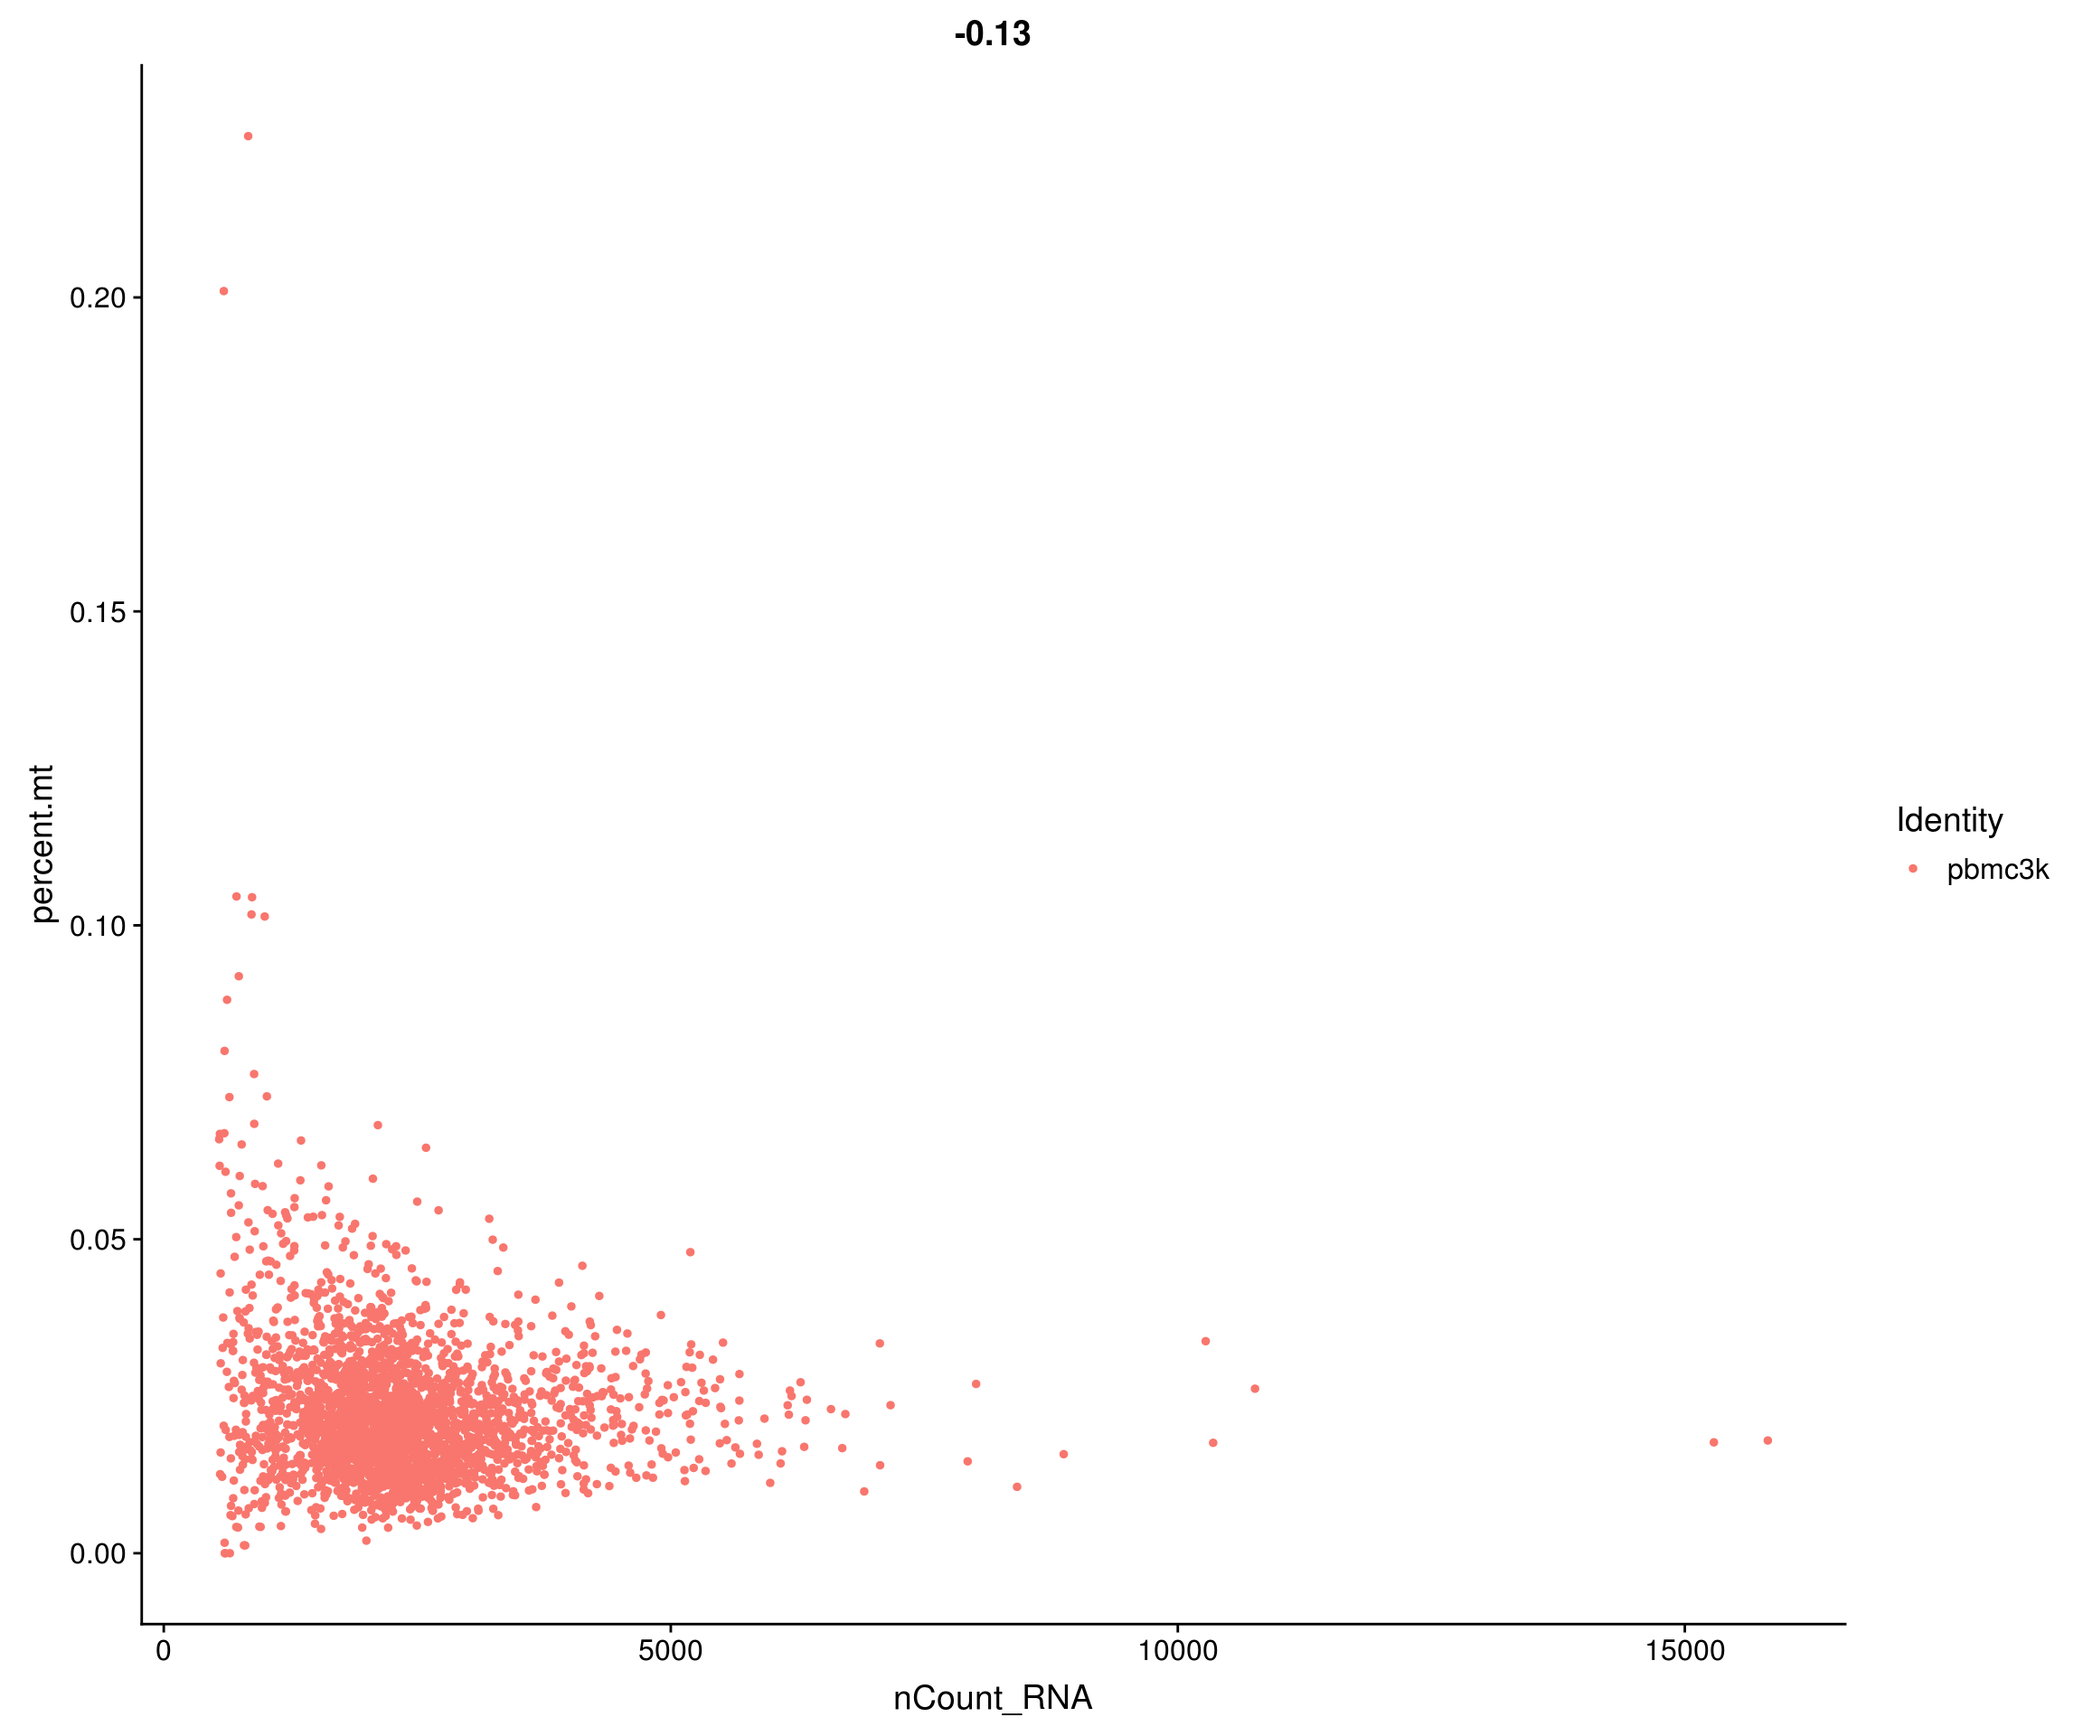
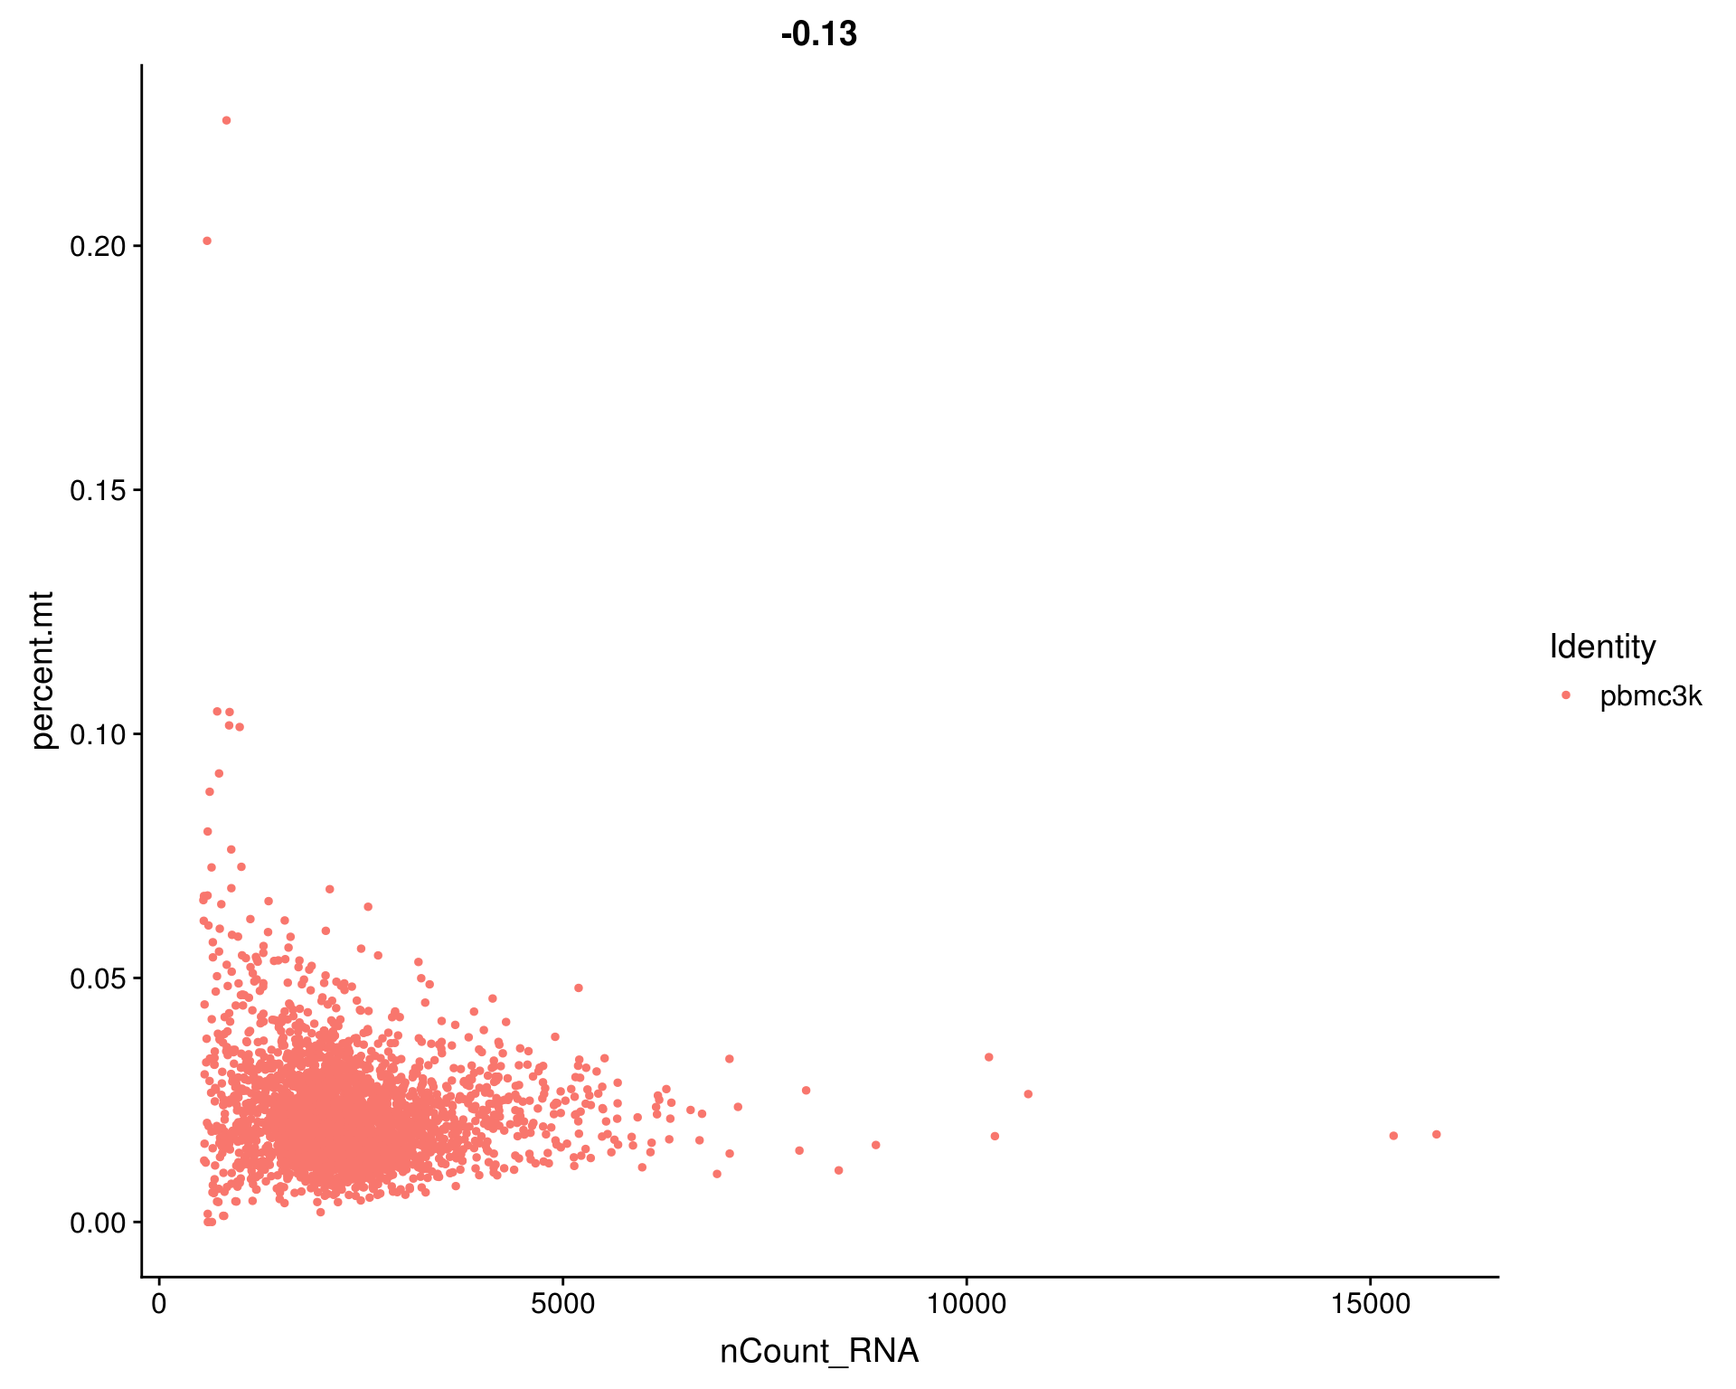
Build site.

diff --git a/docs/analysis.html b/docs/analysis.html
@@ -318,7 +318,7 @@ div.section {
 
 <h1 class="title toc-ignore">Single cell data analysis workshop</h1>
 <h4 class="author"><em>Jon Thompson, Pers lab</em></h4>
-<h4 class="date"><em>2019-05-10 09:15:48</em></h4>
+<h4 class="date"><em>2019-05-10 09:26:52</em></h4>
 
 </div>
 
@@ -422,10 +422,10 @@ This reproducible <a href="http://rmarkdown.rstudio.com">R Markdown</a> analysis
 <div class="panel panel-default">
 <div class="panel-heading">
 <p class="panel-title">
-<a data-toggle="collapse" data-parent="#workflowr-checks" href="#strongRepositoryversionstrongahrefhttpsgithubcomJonThom190510scWorkshoptree6acaec4b34edf9d57adf1caf023f1835cf43813btargetblank6acaec4a"> <span class="glyphicon glyphicon-ok text-success" aria-hidden="true"></span> <strong>Repository version:</strong> <a href="https://github.com/JonThom/190510-scWorkshop/tree/6acaec4b34edf9d57adf1caf023f1835cf43813b" target="_blank">6acaec4</a> </a>
+<a data-toggle="collapse" data-parent="#workflowr-checks" href="#strongRepositoryversionstrongahrefhttpsgithubcomJonThom190510scWorkshoptree0b4f952b473b5653698f687b2f68ddc63337e035targetblank0b4f952a"> <span class="glyphicon glyphicon-ok text-success" aria-hidden="true"></span> <strong>Repository version:</strong> <a href="https://github.com/JonThom/190510-scWorkshop/tree/0b4f952b473b5653698f687b2f68ddc63337e035" target="_blank">0b4f952</a> </a>
 </p>
 </div>
[2 lines of base64/hex data omitted]
 <div class="panel-body">
 <p>
 Great! You are using Git for version control. Tracking code development and connecting the code version to the results is critical for reproducibility. The version displayed above was the version of the Git repository at the time these results were generated. <br><br> Note that you need to be careful to ensure that all relevant files for the analysis have been committed to Git prior to generating the results (you can use <code>wflow_publish</code> or <code>wflow_git_commit</code>). workflowr only checks the R Markdown file, but you know if there are other scripts or data files that it depends on. Below is the status of the Git repository when the results were generated:
@@ -476,6 +476,40 @@ Message
 </tr>
 </thead>
 <tbody>
+<tr>
+<td>
+Rmd
+</td>
+<td>
+<a href="https://github.com/JonThom/190510-scWorkshop/blob/0b4f952b473b5653698f687b2f68ddc63337e035/analysis/analysis.Rmd" target="_blank">0b4f952</a>
+</td>
+<td>
+JonThom
+</td>
+<td>
+2019-05-10
+</td>
+<td>
+wflow_publish(“./analysis/analysis.Rmd”)
+</td>
+</tr>
+<tr>
+<td>
+html
+</td>
+<td>
+<a href="https://rawcdn.githack.com/JonThom/190510-scWorkshop/966c250a78bade4d0b7c9be1210aff5c53b79e3b/docs/analysis.html" target="_blank">966c250</a>
+</td>
+<td>
+JonThom
+</td>
+<td>
+2019-05-10
+</td>
+<td>
+Build site.
+</td>
+</tr>
 <tr>
 <td>
 Rmd
@@ -852,7 +886,7 @@ JonThom
 # for anything calculated by the object, i.e. columns in object metadata, PC scores etc.
 
 FeatureScatter(pbmc, feature1 = &quot;nCount_RNA&quot;, feature2 = &quot;percent.mt&quot;)</code></pre>
-<p><img src="figure/analysis.Rmd/unnamed-chunk-10-1.png" width="1152" style="display: block; margin: auto;" /></p>
+<p><img src="figure/analysis.Rmd/unnamed-chunk-10-1.png" width="960" style="display: block; margin: auto;" /></p>
 <p>
 <button type="button" class="btn btn-default btn-xs btn-workflowr btn-workflowr-fig" data-toggle="collapse" data-target="#fig-unnamed-chunk-10-1">
 Past versions of unnamed-chunk-10-1.png
@@ -1317,7 +1351,7 @@ Number of edges: 157834
 Running Louvain algorithm...
 Maximum modularity in 10 random starts: 0.8590
 Number of communities: 9
-Elapsed time: 1 seconds</code></pre>
+Elapsed time: 0 seconds</code></pre>
 <pre class="r"><code># Look at cluster IDs of the first 5 cells
 head(Idents(pbmc), 5)</code></pre>
 <pre><code>AAACATACAACCAC AAACATTGAGCTAC AAACATTGATCAGC AAACCGTGCTTCCG AAACCGTGTATGCG 
@@ -1342,7 +1376,7 @@ pbmc &lt;- RunTSNE(pbmc,
 # individual clusters
 DimPlot(pbmc, 
         reduction = &quot;tsne&quot;)</code></pre>
-<p><img src="figure/analysis.Rmd/unnamed-chunk-29-1.png" width="960" style="display: block; margin: auto;" /></p>
+<p><img src="figure/analysis.Rmd/unnamed-chunk-29-1.png" width="768" style="display: block; margin: auto;" /></p>
 <p>
 <button type="button" class="btn btn-default btn-xs btn-workflowr btn-workflowr-fig" data-toggle="collapse" data-target="#fig-unnamed-chunk-29-1">
 Past versions of unnamed-chunk-29-1.png
